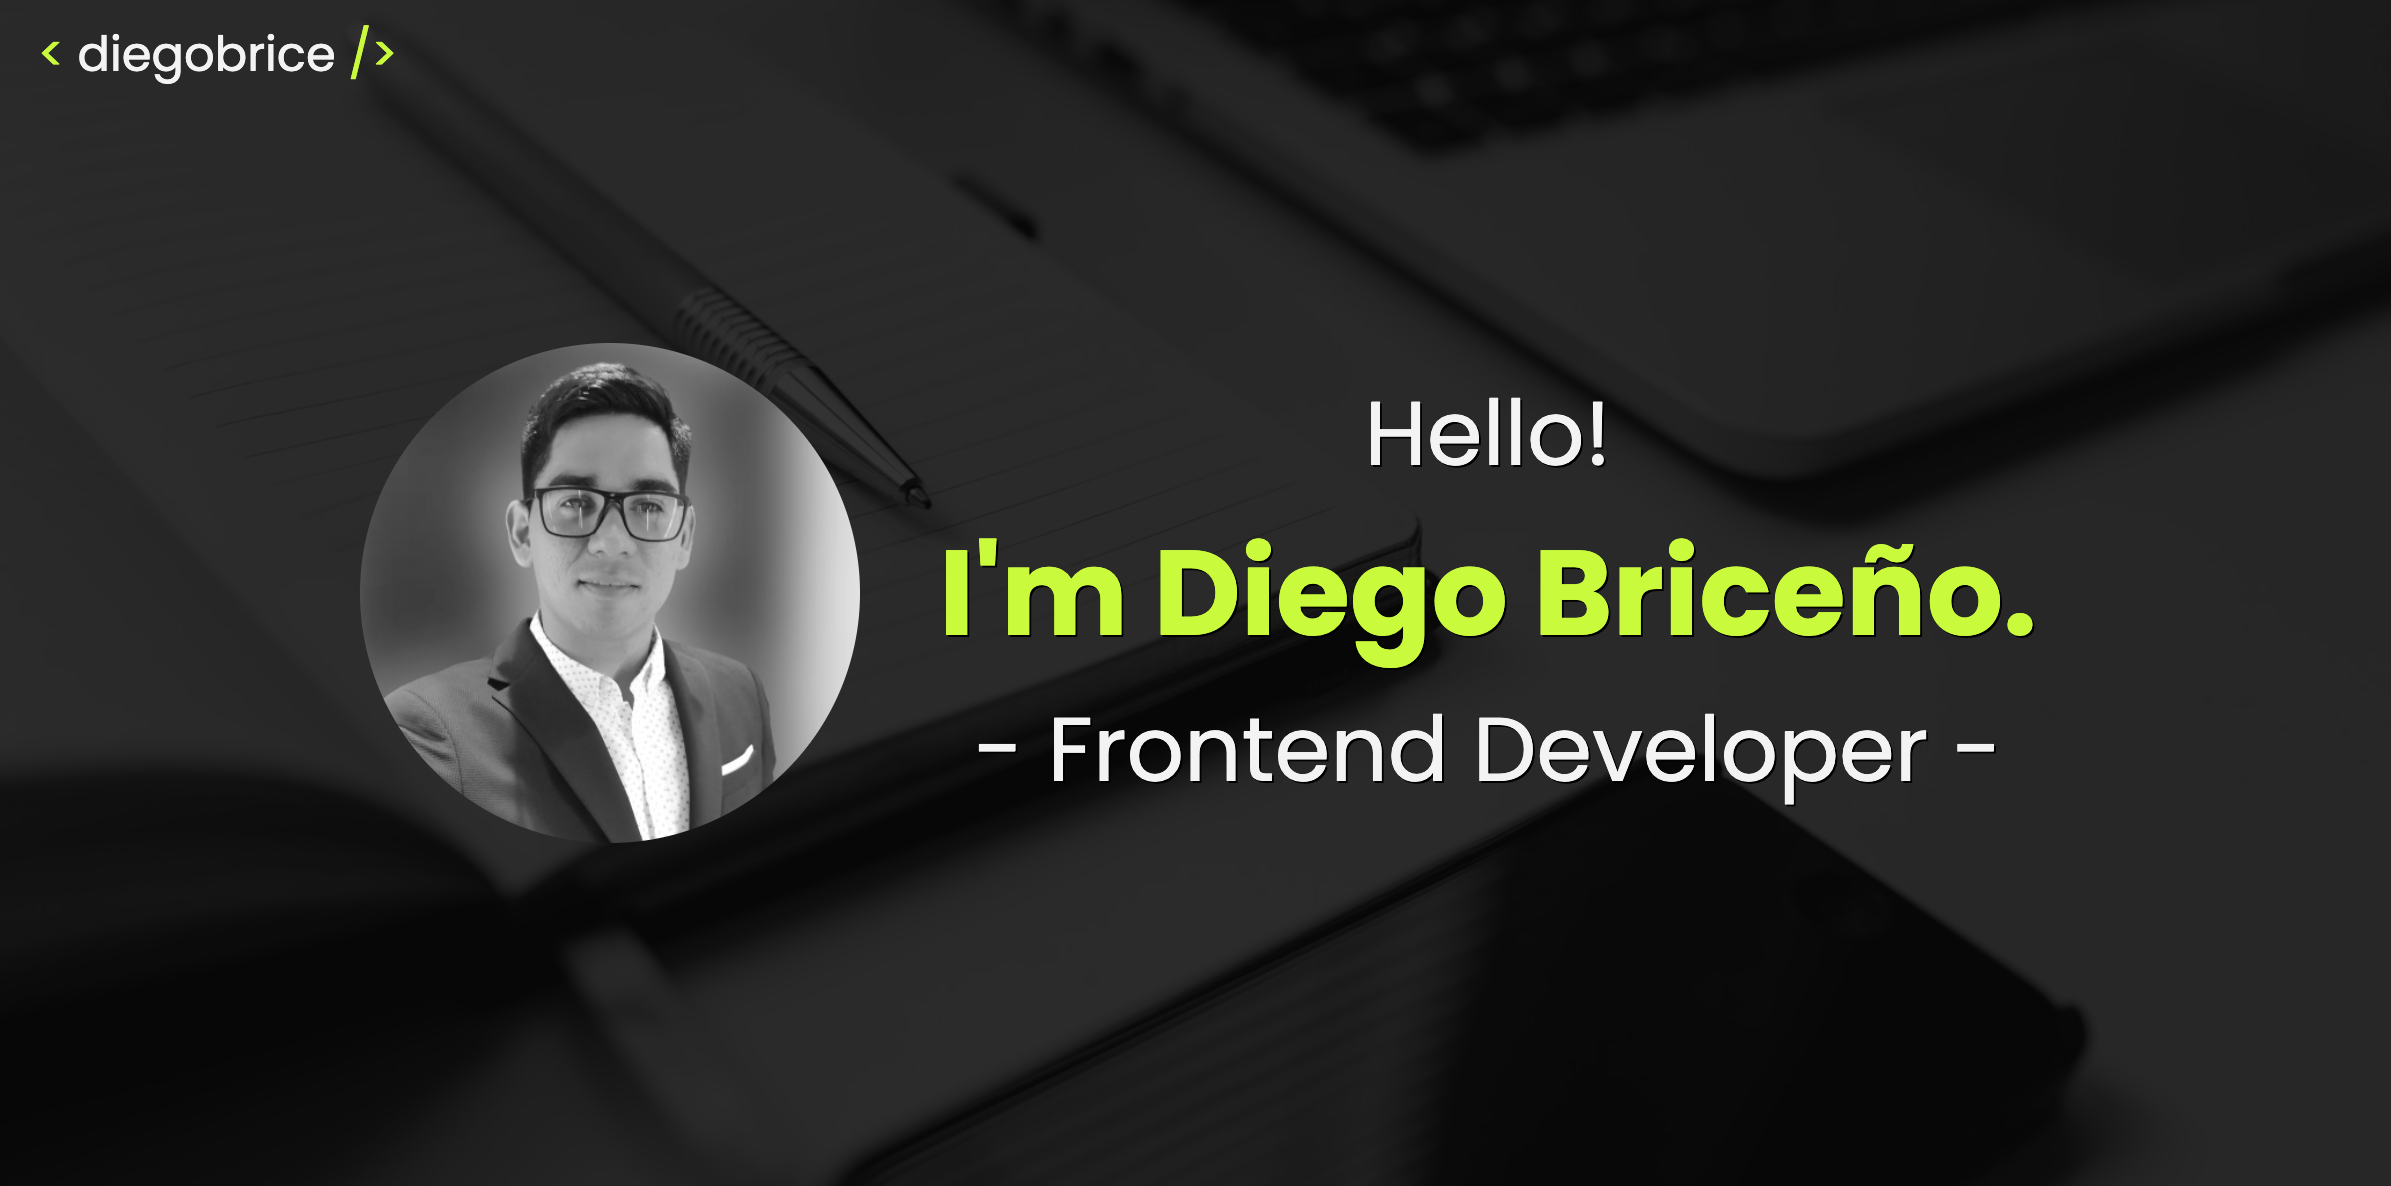
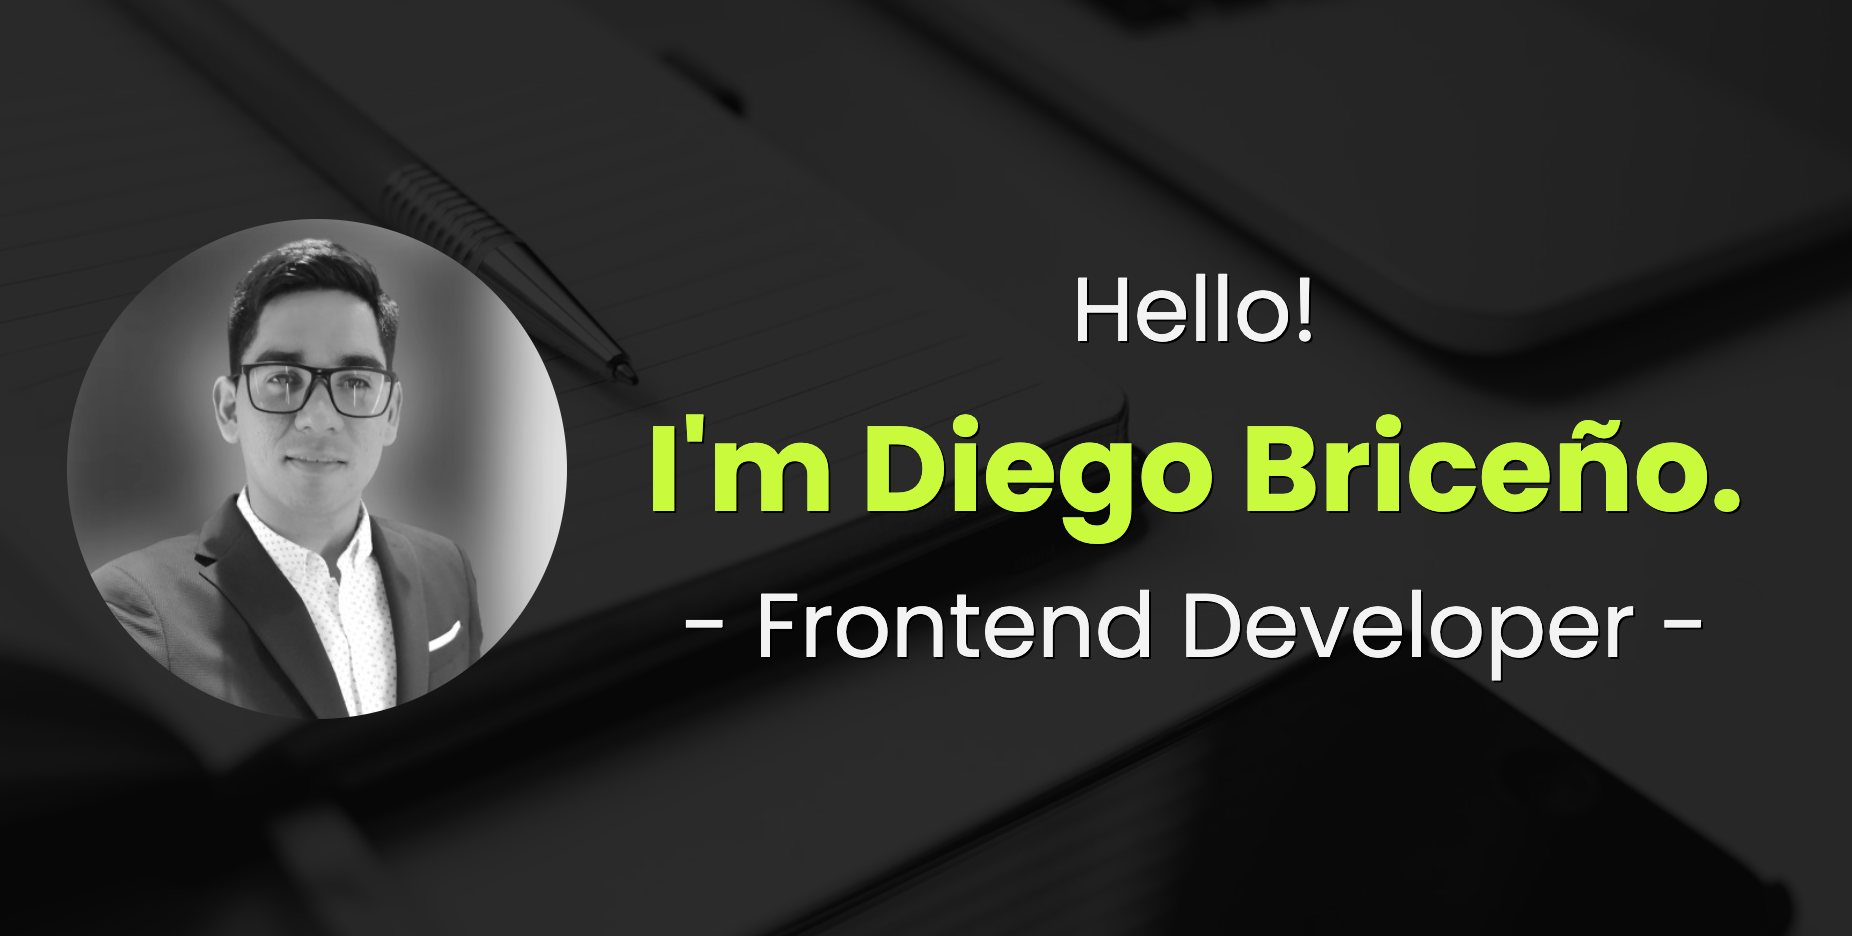
added WebP images

diff --git a/index.html b/index.html
@@ -77,7 +77,11 @@
     </nav>
     <section id="home" class="home">
       <div class="home__background"></div>
-      <img class="home__profile" src="./assets/profile.jpg" alt="img profile" />
+      <picture>
+        <source type="image/webp" srcset="./assets/profile.webp" />
+        <source type="image/jpeg" srcset="./assets/profile.jpg" />
+        <img class="home__profile" alt="picture profile" />
+      </picture>
       <div class="home__description">
         <span class="home__title-secondary">Hello!</span>
         <h1 class="home__title">I'm Diego Briceño.</h1>
@@ -197,11 +201,11 @@
         <div class="section__underline"></div>
         <div class="portfolio__grid">
           <div class="portfolio__item">
-            <img
-              class="portfolio__img"
-              src="./assets/portfolio.jpg"
-              alt="portfolio item"
-            />
+            <picture>
+              <source type="image/webp" srcset="./assets/portfolio.webp" />
+              <source type="image/jpeg" srcset="./assets/portfolio.jpg" />
+              <img class="portfolio__img" alt="portfolio item" />
+            </picture>
             <div class="portfolio__description">
               <h3 class="portfolio__description--title">Responsive Design</h3>
               <p class="portfolio__description--text">
@@ -218,11 +222,11 @@
             </div>
           </div>
           <div class="portfolio__item">
-            <img
-              class="portfolio__img"
-              src="./assets/portfolio.jpg"
-              alt="portfolio item"
-            />
+            <picture>
+              <source type="image/webp" srcset="./assets/portfolio.webp" />
+              <source type="image/jpeg" srcset="./assets/portfolio.jpg" />
+              <img class="portfolio__img" alt="portfolio item" />
+            </picture>
             <div class="portfolio__description">
               <h3 class="portfolio__description--title">Responsive Design</h3>
               <p class="portfolio__description--text">
@@ -239,11 +243,11 @@
             </div>
           </div>
           <div class="portfolio__item">
-            <img
-              class="portfolio__img"
-              src="./assets/portfolio.jpg"
-              alt="portfolio item"
-            />
+            <picture>
+              <source type="image/webp" srcset="./assets/portfolio.webp" />
+              <source type="image/jpeg" srcset="./assets/portfolio.jpg" />
+              <img class="portfolio__img" alt="portfolio item" />
+            </picture>
             <div class="portfolio__description">
               <h3 class="portfolio__description--title">Responsive Design</h3>
               <p class="portfolio__description--text">
@@ -260,11 +264,11 @@
             </div>
           </div>
           <div class="portfolio__item">
-            <img
-              class="portfolio__img"
-              src="./assets/portfolio.jpg"
-              alt="portfolio item"
-            />
+            <picture>
+              <source type="image/webp" srcset="./assets/portfolio.webp" />
+              <source type="image/jpeg" srcset="./assets/portfolio.jpg" />
+              <img class="portfolio__img" alt="portfolio item" />
+            </picture>
             <div class="portfolio__description">
               <h3 class="portfolio__description--title">Responsive Design</h3>
               <p class="portfolio__description--text">
@@ -281,11 +285,11 @@
             </div>
           </div>
           <div class="portfolio__item">
-            <img
-              class="portfolio__img"
-              src="./assets/portfolio.jpg"
-              alt="portfolio item"
-            />
+            <picture>
+              <source type="image/webp" srcset="./assets/portfolio.webp" />
+              <source type="image/jpeg" srcset="./assets/portfolio.jpg" />
+              <img class="portfolio__img" alt="portfolio item" />
+            </picture>
             <div class="portfolio__description">
               <h3 class="portfolio__description--title">Responsive Design</h3>
               <p class="portfolio__description--text">
@@ -302,11 +306,11 @@
             </div>
           </div>
           <div class="portfolio__item">
-            <img
-              class="portfolio__img"
-              src="./assets/portfolio.jpg"
-              alt="portfolio item"
-            />
+            <picture>
+              <source type="image/webp" srcset="./assets/portfolio.webp" />
+              <source type="image/jpeg" srcset="./assets/portfolio.jpg" />
+              <img class="portfolio__img" alt="portfolio item" />
+            </picture>
             <div class="portfolio__description">
               <h3 class="portfolio__description--title">Responsive Design</h3>
               <p class="portfolio__description--text">

diff --git a/styles.css b/styles.css
@@ -108,7 +108,7 @@ section {
 }
 
 .home__background {
-  background-image: url(./assets/bg.jpg);
+  background-image: url(./assets/bg.webp), url(./assets/bg.jpg);
   background-attachment: fixed;
   background-size: cover;
   background-position: center;
